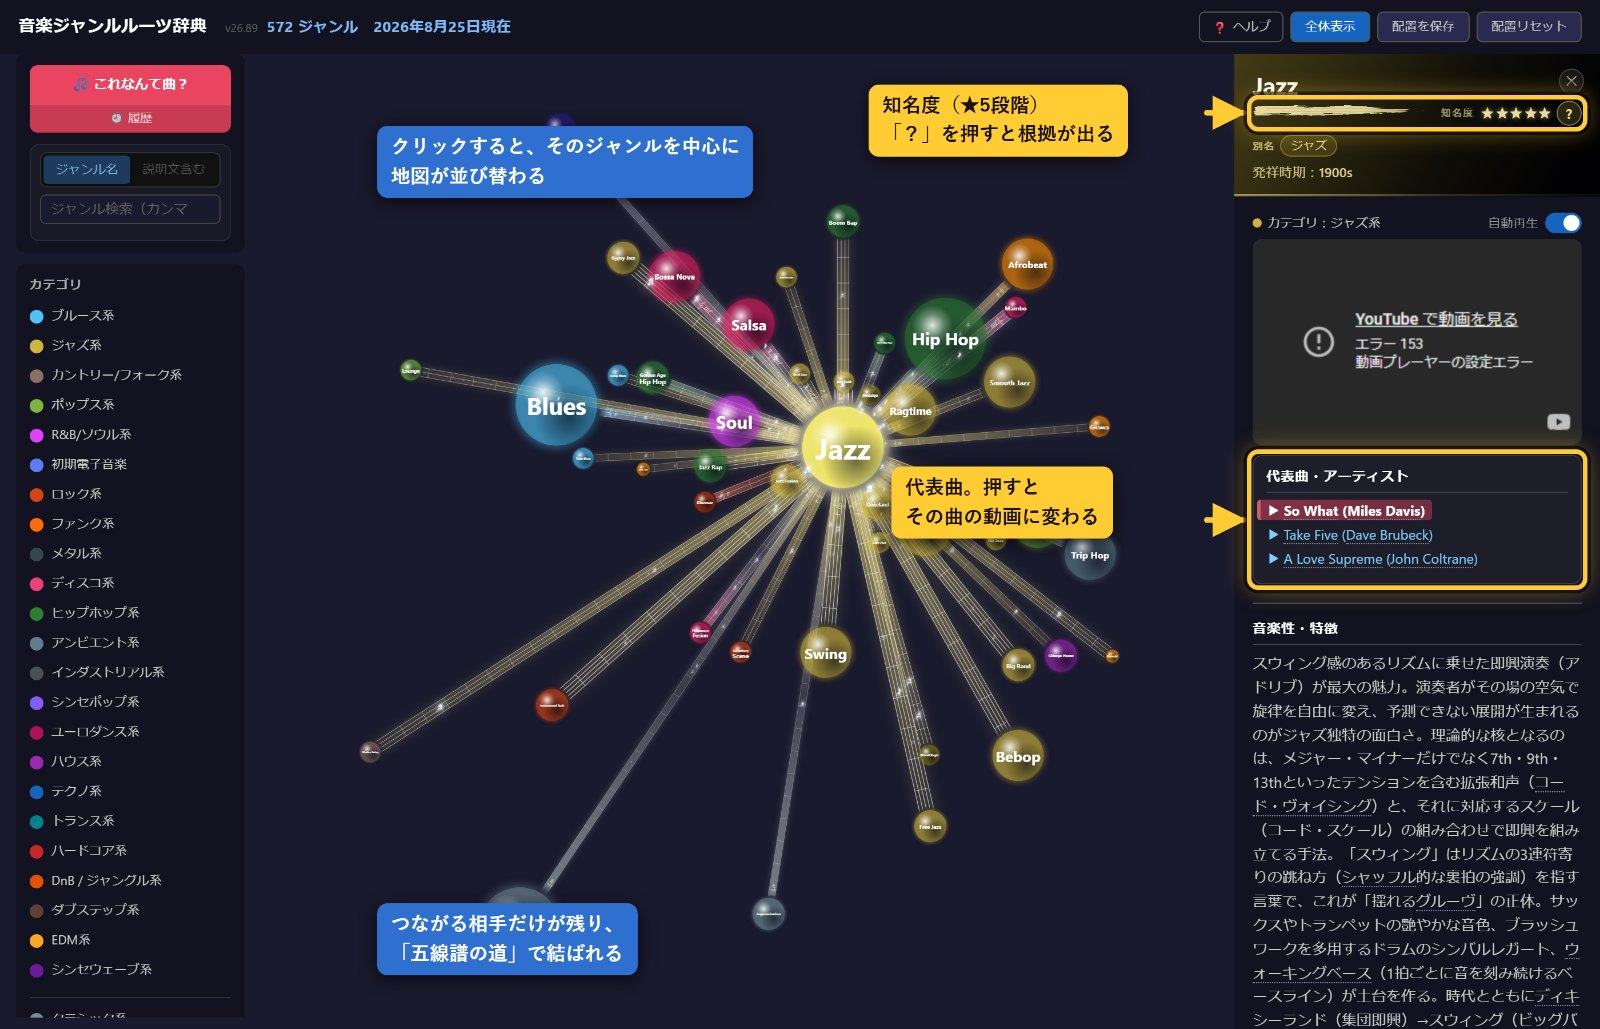
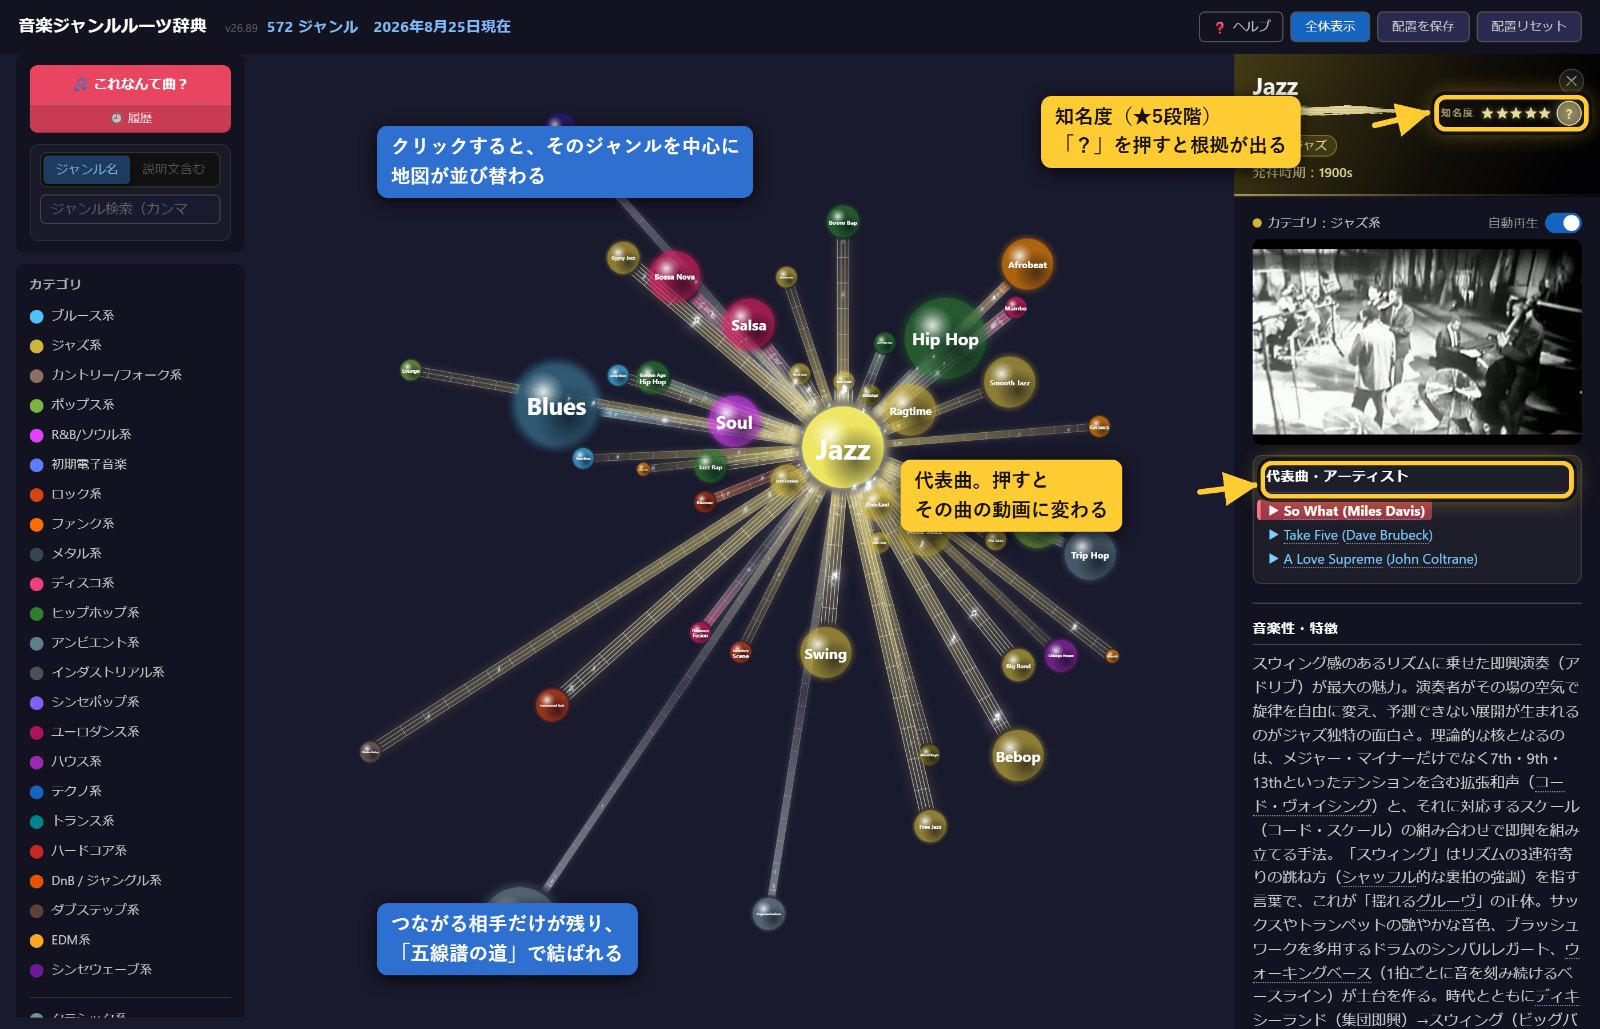
ヘルプの指摘7点を直す
チョロさんがヘルプを読んで挙げた指摘を、順に直した。

■ 冒頭を書き直した
「どんな人に、どんな発見があるか」が書かれておらず、機能の羅列だった。
このツールの目的は「自分の好みをまだ知らない人に、隣のジャンルを
見つけてもらうこと」。作者自身がロックのルーツをたどるうちにトランスに
行き着いて好みだと気づいた、という体験をそのまま書いた。

■ 「丸どうしをつなぐ線は影響関係を表す」を直した
全体の地図では線が1本も見えていない。実測して確かめた。
  .link { stroke-opacity: 0; }              ← ふだんは完全に透明
  .link.focus-highlight { stroke-opacity: 0.6 } ← 選んだときだけ見える
丸と文字を消して撮ると線が1本も写らないことも確認した。
「全体の地図では線として出ていない。丸をクリックするとつながる相手だけが
残り、五線譜の道で結ばれる」と書き直した。

■ 「1段上がるごとに丸の広さが2.5倍」を直した
FAME_RADIUS は 34/54/85/135/215。直径は約1.59倍ずつ、面積が約2.5倍ずつ。
面積としては間違いではないが、見た目の印象は直径で決まるため誤解を招く。
「直径が約1.6倍（面積にすると約2.5倍）」と両方書いた。

■ 知名度の点の表を足した
何点でどの段になるかの数字がどこにも書かれていなかった。
3つの数え方それぞれの1〜5点の境目と、合計から★が決まる表を入れた。
数字は genre_adder.py の _FAME_LANG / _FAME_VIEW / _FAME_YT / _FAME_TOTAL
から読み出した実物。

■ 知名度の黄色い枠が、意味のない帯から始まっていた
「知名度」の文字と★と「？」をちょうど包む .sp-fame を囲むようにした。

■ 説明パネルの図で YouTube が「エラー153」になっていた
file:// から開くと YouTube 側が再生を拒むため。http で配っている
Render経由（/roots）で撮り直し、実際の映像が出ている図にした。

■ 「ジャンルマップに戻る」が目立たなかった
12.5pxの灰色の文字で、マウスを乗せないと白くならず、戻り方が分からないと
指摘された。青いボタンの形にし、ページの終わりにも大きめに置いた。

検証：ヘルプをブラウザで開き、図7枚すべてが読み込めること、ページの
エラーが無いこと、横スクロールが出ないことを確認した。タグの開閉数も
table/thead/tbody/tr/td/th/p/div/figure/h2/h3/h4/ol/li すべて一致。

diff --git a/docs/manual.html b/docs/manual.html
@@ -22,11 +22,27 @@
     border-bottom: 1px solid var(--border);
     padding: 14px 20px;
   }
+  /* 「戻る」はボタンの形にして、ひと目で押せると分かるようにする。
+     もとは12.5pxの灰色の文字で、戻り方が分からないと指摘された（2026-08-26） */
   .top-bar a {
-    color: var(--text-2); text-decoration: none; font-size: 12.5px;
-    display: inline-flex; align-items: center; gap: 6px;
+    color: #fff; text-decoration: none; font-size: 14px; font-weight: 700;
+    display: inline-flex; align-items: center; gap: 8px;
+    background: #2f6fd0; border: 1px solid #4a86e8; border-radius: 8px;
+    padding: 9px 18px; box-shadow: 0 2px 10px rgba(47,111,208,.35);
   }
-  .top-bar a:hover { color: var(--text); }
+  .top-bar a:hover { background: #3d80e6; box-shadow: 0 3px 14px rgba(47,111,208,.55); }
+  .top-bar a:focus-visible { outline: 2px solid #ffcc33; outline-offset: 2px; }
+
+  /* ページの終わりにも大きめに置く。読み終えたところから戻れるように */
+  .back-bottom { text-align: center; margin: 54px 0 10px; }
+  .back-bottom a {
+    display: inline-flex; align-items: center; gap: 10px;
+    color: #fff; text-decoration: none; font-size: 16px; font-weight: 700;
+    background: #2f6fd0; border: 1px solid #4a86e8; border-radius: 10px;
+    padding: 14px 30px; box-shadow: 0 3px 14px rgba(47,111,208,.4);
+  }
+  .back-bottom a:hover { background: #3d80e6; }
+  .back-bottom a:focus-visible { outline: 2px solid #ffcc33; outline-offset: 2px; }
 
   .page { max-width: 700px; margin: 0 auto; padding: 44px 20px 0; }
   .eyebrow { font-size: 10px; font-weight: 700; letter-spacing: 0.15em; text-transform: uppercase; color: var(--accent); margin-bottom: 10px; }
@@ -92,9 +108,27 @@
   <div class="eyebrow">使い方ガイド</div>
   <h1>音楽ジャンルルーツ辞典の使い方</h1>
   <p class="lede">
-    このサイトは、音楽ジャンルどうしの成り立ちや影響関係を地図のようにたどれる事典です。
-    ジャンルを眺めるだけでなく、「この曲は何ジャンル？」を調べたり、載っていないジャンルをリクエストしたり、
-    間違いを見つけたら修正の依頼を送ることもできます。
+    <strong>「自分の好きな音楽って、どこから来たんだろう」</strong>——
+    そう思ったことはありませんか。</p>
+    <p class="lede">誰でも、聴く音楽は少し偏っています。日本で育てば J-POP やバラードが耳になじみ、
+    海外のものはロックばかり、というように。それは悪いことではありません。
+    ただ、<strong>そのすぐ隣に、まだ出会っていない「好きになるはずの音楽」がある</strong>としたら、
+    もったいないと思いませんか。</p>
+    <p class="lede">この事典は、572のジャンルを<strong>つながりの地図</strong>にしたものです。
+    好きなジャンルをひとつ選ぶと、そこから枝が伸びます。
+    <strong>そのジャンルを生んだ親</strong>、<strong>そこから生まれた子</strong>、
+    <strong>影響を与え合った仲間</strong>。たどっていくうちに、
+    名前も知らなかったジャンルにぶつかります。試しに1曲聴いてみる。
+    ——<strong>「あ、これ好きかも」。</strong></p>
+    <p class="lede">作者自身がそうでした。ロックのルーツをさかのぼり、
+    枝分かれの先を聴いていくうちに、<strong>まったく縁がないと思っていたトランス</strong>に行き着き、
+    それが自分の好みだと気づいたのです。名前だけ知っていて「よく分からない」で終わっていた音楽が、
+    <strong>ちゃんと自分の好きな音だった</strong>——そういう発見をしてほしくて、これを作りました。</p>
+    <p class="lede">ジャンルごとに<strong>代表曲がすぐ聴けます</strong>。
+    説明を読んでから聴いてもいいし、まず聴いてから説明を読んでもいい。
+    「この曲、何ジャンルなんだろう」を音から調べることもできます。</p>
+    <p class="lede">音楽の地図を、気の向くままに歩いてみてください。
+    <strong>寄り道の先に、次のお気に入りがあります。</strong>
   </p>
 
   <div class="toc">
@@ -115,7 +149,12 @@
        <figcaption>画面の見取り図。左に「これなんて曲？」と検索、その下にカテゴリの色の見本、右側が地図。右上にヘルプと表示の切り替えがある。</figcaption>
      </figure>
 
-    <p>マップに散らばっている丸(ノード)ひとつひとつが、ひとつの音楽ジャンルです。丸どうしをつなぐ線は「影響を与えた／受けた」という関係を表しています。</p>
+    <p>マップに散らばっている丸（ノード）ひとつひとつが、ひとつの音楽ジャンルです。
+     572個の丸が、全部そこに並んでいます。</p>
+     <p>ジャンルどうしの<strong>つながりは、全体の地図では線として出ていません</strong>。
+     1,600本以上あるので、全部いっぺんに出すと真っ白になってしまうからです。
+     <strong>丸をひとつクリックすると</strong>、そのジャンルにつながる相手だけが残り、
+     線（→ <a href="#staff">五線譜の道</a>）で結ばれます。</p>
 
     <h3>丸の大きさ＝そのジャンルの知られ具合</h3>
      <figure>
@@ -123,7 +162,9 @@
        <figcaption>丸が大きいほど、世界でよく知られているジャンル。Jazz（知名度★5）と Acid Jazz（★4）の大きさのちがい。</figcaption>
      </figure>
 
-    <p>丸が大きいほど、世界でよく知られているジャンルです。5段階あり、1段上がるごとに丸の広さが2.5倍になります。
+    <p>丸が大きいほど、世界でよく知られているジャンルです。5段階あり、
+     1段上がるごとに<strong>直径が約1.6倍</strong>（面積にすると約2.5倍）になります。
+     いちばん小さい★1といちばん大きい★5では、直径で約6倍のちがいがあります。
       Jazz や Rock のような大物は大きく、ごく一部の人だけが知っているジャンルは小さくなります。
       この大きさは感覚で決めたものではなく、<b>公開されている3つのデータを数えて</b>決めています（→ <a href="#fame">知名度のしくみ</a>）。</p>
 
@@ -204,7 +245,46 @@
       <li><b>年間の閲覧数</b>… 主要12言語版の合計。いま関心を持たれているかを表します</li>
       <li><b>代表曲の再生回数</b>… YouTubeで実際に聴かれた量を表します</li>
     </ul>
-    <p>3つ使うのは、1つだけでは必ず偏るからです。ウィキペディアは「書く人・集める人」の数であって
+    <p><h4 style="margin:22px 0 8px;font-size:14px;color:#cfcfe4;">何点になるかの目安</h4>
+     <div style="overflow-x:auto;">
+     <table style="border-collapse:collapse;width:100%;font-size:12.5px;min-width:440px;">
+       <thead>
+         <tr style="background:#22222e;color:#9a9ab0;">
+           <th style="padding:7px 10px;text-align:left;border:1px solid #33334a;">点</th>
+           <th style="padding:7px 10px;text-align:right;border:1px solid #33334a;">ウィキペディアの言語版</th>
+           <th style="padding:7px 10px;text-align:right;border:1px solid #33334a;">年間の閲覧数</th>
+           <th style="padding:7px 10px;text-align:right;border:1px solid #33334a;">代表曲の再生回数</th>
+         </tr>
+       </thead>
+       <tbody>
+         <tr><td style="padding:6px 10px;border:1px solid #33334a;">5点</td><td style="padding:6px 10px;text-align:right;border:1px solid #33334a;">100か国語以上</td><td style="padding:6px 10px;text-align:right;border:1px solid #33334a;">60万回以上</td><td style="padding:6px 10px;text-align:right;border:1px solid #33334a;">5,000万回以上</td></tr>
+         <tr><td style="padding:6px 10px;border:1px solid #33334a;">4点</td><td style="padding:6px 10px;text-align:right;border:1px solid #33334a;">45〜99</td><td style="padding:6px 10px;text-align:right;border:1px solid #33334a;">25万〜60万回</td><td style="padding:6px 10px;text-align:right;border:1px solid #33334a;">1,000万〜5,000万回</td></tr>
+         <tr><td style="padding:6px 10px;border:1px solid #33334a;">3点</td><td style="padding:6px 10px;text-align:right;border:1px solid #33334a;">25〜44</td><td style="padding:6px 10px;text-align:right;border:1px solid #33334a;">10万〜25万回</td><td style="padding:6px 10px;text-align:right;border:1px solid #33334a;">200万〜1,000万回</td></tr>
+         <tr><td style="padding:6px 10px;border:1px solid #33334a;">2点</td><td style="padding:6px 10px;text-align:right;border:1px solid #33334a;">12〜24</td><td style="padding:6px 10px;text-align:right;border:1px solid #33334a;">3万〜10万回</td><td style="padding:6px 10px;text-align:right;border:1px solid #33334a;">30万〜200万回</td></tr>
+         <tr><td style="padding:6px 10px;border:1px solid #33334a;">1点</td><td style="padding:6px 10px;text-align:right;border:1px solid #33334a;">11以下</td><td style="padding:6px 10px;text-align:right;border:1px solid #33334a;">3万回未満</td><td style="padding:6px 10px;text-align:right;border:1px solid #33334a;">30万回未満</td></tr>
+       </tbody>
+     </table>
+     </div>
+
+     <h4 style="margin:22px 0 8px;font-size:14px;color:#cfcfe4;">合計から★が決まる</h4>
+     <div style="overflow-x:auto;">
+     <table style="border-collapse:collapse;width:100%;font-size:12.5px;min-width:340px;">
+       <thead><tr style="background:#22222e;color:#9a9ab0;">
+         <th style="padding:7px 10px;text-align:left;border:1px solid #33334a;">3つの合計</th>
+         <th style="padding:7px 10px;text-align:left;border:1px solid #33334a;">知名度</th>
+         <th style="padding:7px 10px;text-align:left;border:1px solid #33334a;">例</th>
+       </tr></thead>
+       <tbody>
+         <tr><td style="padding:6px 10px;border:1px solid #33334a;">14点以上</td><td style="padding:6px 10px;border:1px solid #33334a;">★★★★★</td><td style="padding:6px 10px;border:1px solid #33334a;">Jazz、Rock、Pop、Hip Hop</td></tr>
+         <tr><td style="padding:6px 10px;border:1px solid #33334a;">11〜13点</td><td style="padding:6px 10px;border:1px solid #33334a;">★★★★☆</td><td style="padding:6px 10px;border:1px solid #33334a;">Bebop、Techno、Ragtime</td></tr>
+         <tr><td style="padding:6px 10px;border:1px solid #33334a;">8〜10点</td><td style="padding:6px 10px;border:1px solid #33334a;">★★★☆☆</td><td style="padding:6px 10px;border:1px solid #33334a;">Tech House、Afro House</td></tr>
+         <tr><td style="padding:6px 10px;border:1px solid #33334a;">5〜7点</td><td style="padding:6px 10px;border:1px solid #33334a;">★★☆☆☆</td><td style="padding:6px 10px;border:1px solid #33334a;">Detroit Techno、Acid Techno</td></tr>
+         <tr><td style="padding:6px 10px;border:1px solid #33334a;">4点以下</td><td style="padding:6px 10px;border:1px solid #33334a;">★☆☆☆☆</td><td style="padding:6px 10px;border:1px solid #33334a;">Skullstep、Deep Dubstep</td></tr>
+       </tbody>
+     </table>
+     </div>
+
+     3つ使うのは、1つだけでは必ず偏るからです。ウィキペディアは「書く人・集める人」の数であって
       「聴く人」の数ではありません。逆に再生回数だけを見ると、歴史の古いジャンルが新しい流行に埋もれます。</p>
     <p>星の右にある <span class="ui-tag">？</span> を押すと、そのジャンルの<b>実際の数字と、それが何点になったか</b>が出ます。
       もう一度押すか、画面のどこかを押すと閉じます。</p>
@@ -303,7 +383,11 @@
     <p class="muted">どんな些細な指摘でも大歓迎です。こうした指摘の積み重ねで、この辞典はより正確なものになっていきます。</p>
   </section>
 
-  <div class="footer-note">音楽ジャンルルーツ辞典 使い方ガイド ・ 最終更新：2026-08-25（図を追加）</div>
+  <div class="back-bottom">
+      <a href="../genre_roots.html">← ジャンルマップに戻る</a>
+    </div>
+
+    <div class="footer-note">音楽ジャンルルーツ辞典 使い方ガイド ・ 最終更新：2026-08-25（図を追加）</div>
 
 </div>
 </body>
